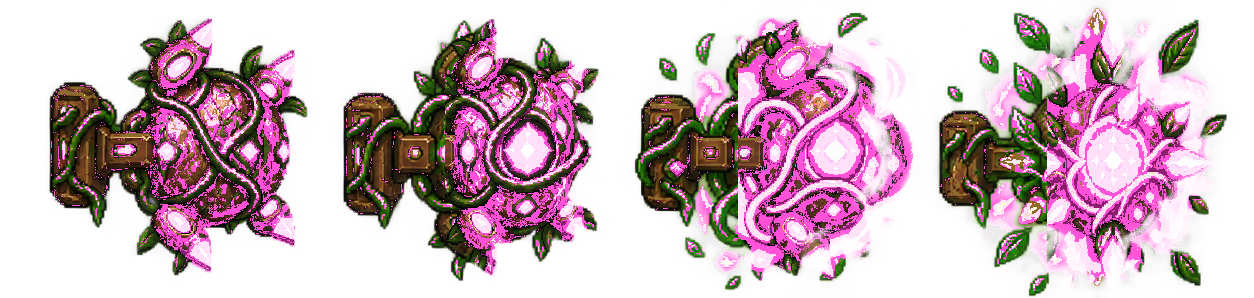
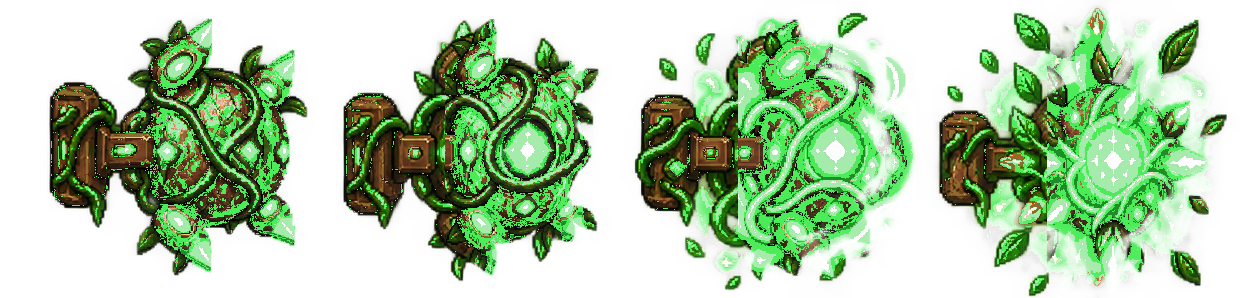
Mine lasers: Space mine fires its painted pink ion beam again (white freed for Storm); Verdant mine's armed/lit atlas recoloured from pink to green-white; cue tables match WorldCue; themed/Verdant art tests + preview

diff --git a/Pause/Assets/Scripts/Gameplay/Enemies/RailMineLaser.cs b/Pause/Assets/Scripts/Gameplay/Enemies/RailMineLaser.cs
@@ -745,17 +745,22 @@ public class RailMineLaserHitbox : MonoBehaviour
 //
 // NO PINK ON A RAIL MINE (user, 2026-10-11): the mine's windup, beam and impact carry no pink. The painted atlases were remapped once
 // (Art/Attacks/MineBeams~/recolor_nopink.py); the kit / boss cells are remapped here, once per world and cached, with the same
-// constants. Each world's warning reads in its own colours instead: Space ion white-blue, Frost icy white-cyan, Verdant bright green-white,
+// constants (Space is NOT remapped: its mine laser stays the painted hot pink). Each other world's warning reads in its own colours instead: Frost icy white-cyan, Verdant bright green-white,
 // Ember amber / orange-white, Tide aqua-white, Storm electric white-violet, Desert sun-white.
 public static class MineCue
 {
     //                                       space  frost verdant ember  tide  storm desert
-    public static readonly float[] Hue = { 215f, 195f, 135f, 32f, 188f, 258f, 45f };
-    public static readonly float[] SatCap = { .45f, .40f, .55f, .85f, .38f, .38f, .35f };
+    public static readonly float[] Hue = { 318f, 195f, 135f, 32f, 188f, 258f, 45f };
+    public static readonly float[] SatCap = { .70f, .40f, .55f, .85f, .38f, .38f, .35f };
     public static readonly float[] ValueMin = { .85f, .90f, .88f, .92f, .90f, .92f, .92f };
     public const int Worlds = 7;
 
     public static int Slot(int world) => Mathf.Clamp(world, 0, Worlds - 1);
+
+    // User, 2026-10-12: Space is the one world whose mine laser is PINK; white(-violet) is Storm's. So Space is never remapped.
+    public static bool KeepsPink(int world) => world <= 0 && !LegacySpaceWhite;
+    // preview only: the old Space look (pink remapped to ion white-blue), for before-pictures
+    public static bool LegacySpaceWhite;
 
     // The pink family of a boss / kit cell: ANY visibly pinkish pixel -- hue 280..352 at a chroma of at least 9/255 and not dark (saturated
     // pink AND the pale pinkish-white / lavender-white of rims and specks), or the hot pink of the boss beams that sits in the player's
@@ -773,8 +778,9 @@ public static class MineCue
     {
         int k = Slot(world);
         Color.RGBToHSV(c, out float h, out float s, out float v);
-        float sat = Mathf.Min(Mathf.Max(s * .8f, .10f), SatCap[k]) * (v < .95f ? 1f : .75f);
-        var m = Color.HSVToRGB(Hue[k] / 360f, sat, Mathf.Max(v, ValueMin[k]));
+        bool old = k == 0 && LegacySpaceWhite;
+        float sat = Mathf.Min(Mathf.Max(s * .8f, .10f), old ? .45f : SatCap[k]) * (v < .95f ? 1f : .75f);
+        var m = Color.HSVToRGB((old ? 215f : Hue[k]) / 360f, sat, Mathf.Max(v, old ? .85f : ValueMin[k]));
         m.a = c.a;
         return m;
     }
@@ -817,6 +823,7 @@ public static class MineCue
     public static Sprite Recolour(Sprite cell, int world)
     {
         if (cell == null) return null;
+        if (KeepsPink(world)) return cell;   // Space: its painted hot pink stays (white-violet belongs to Storm)
         int w, h;
         var px = ShieldContour.ReadPixels(cell, out w, out h);
         if (px == null) return cell;
@@ -851,6 +858,7 @@ public static class MineCue
     // The world's painted laser kit with its pink removed (same cells, same measurements).
     public static AttackArt.LaserArt Kit(AttackArt.LaserArt k, int world)
     {
+        if (KeepsPink(world)) return k;
         var o = new AttackArt.LaserArt { bodyOpaquePx = k.bodyOpaquePx, impactBasePx = k.impactBasePx };
         Copy(All(k.windup, world), o.windup); Copy(All(k.muzzle, world), o.muzzle); Copy(All(k.fade, world), o.fade); Copy(All(k.impact, world), o.impact);
         Copy(All(k.spark, world), o.spark); Copy(All(k.body, world), o.body); Copy(All(k.sight, world), o.sight); Copy(All(k.lockOn, world), o.lockOn);

diff --git a/Pause/Assets/Editor/Tests/RailMineThemedTest.cs b/Pause/Assets/Editor/Tests/RailMineThemedTest.cs
@@ -6,7 +6,7 @@ using UnityEngine;
 // EVERY WORLD'S RAIL MINE ATTACKS IN THAT WORLD'S OWN MATERIAL (docs/world-attacks-design.md, the add-world skill's THEMED ATTACKS rule).
 //
 //   Space                    the mine fires the world's painted laser kit (Resources/Attacks/Space/space_attack_laser*, AttackArt.BossLaser:
-//                            ion beam, its pink remapped to ion white-blue by MineCue), NOT the boss cells
+//                            ion beam, PINK, left as painted: Space is the one world with a pink mine laser, 2026-10-12), NOT the boss cells
 //   Ember                    the flame-thrower (ember_attack_mineflame.png, MineFlameArt)
 //   Frost / Verdant /        their own custom attack in the same shape (<w>_attack_minebeam.png, AttackArt.MineBeam, MineFlameArt.ForWorld):
 //   Tide / Storm             a cryo laser, a thorned vine lash, a pressurised water jet, a lightning arc: pilot flare, aim line, beam loop,
@@ -100,6 +100,15 @@ public static class RailMineThemedTest
         string t = Keys[w] + ": ";
         var a = MineLaserArt.For(w);
         var src = AttackArt.BossLaser(w);
+        if (w == 0)
+        {
+            // SPACE IS PINK (user, 2026-10-12): the mine fires the painted ion kit as it is, never remapped (white-violet is Storm's)
+            Check(t + "the mine's art is the painted laser kit itself, not remapped", src != null && a.kit == src && a.flame == null && MineCue.KeepsPink(0) && !MineCue.KeepsPink(5));
+            float pb = PinkShare(a.kit.body[0], out int rb, out int ob), ps = PinkShare(a.kit.sight[0], out int rs, out int os);
+            Check(t + "its beam body is pink (" + (pb * 100f).ToString("F0") + "%) and its aim line is pink (" + (ps * 100f).ToString("F0") + "%)", pb > .3f && ps > .3f);
+            Check(t + "the cue table: Space pink, every other world's mine cue not pink", WorldCue.IsPink(WorldCue.Body(0)) && MineCue.Hue[0] == WorldCue.Hue[0] && AllOthersNotPink());
+            return;
+        }
         Check(t + "the mine's art is the world's laser kit with its pink remapped (a cached copy, not the boss cells, not the boss's own kit)", src != null && a.kit != null && a.kit != src && a.flame == null &&
               a.kit.body[0] != src.body[0] && a.kit.bodyOpaquePx == src.bodyOpaquePx && a.kit.impactBasePx == src.impactBasePx);
         Check(t + "built once per world: a second look-up is the same object", ReferenceEquals(MineLaserArt.For(w), a));
@@ -117,6 +126,18 @@ public static class RailMineThemedTest
         }
         Check(t + "no pink (<= " + (MaxPinkShare * 100f) + "% pink-family) and no player-red in any cell:" + line, cue);
         Check(t + "the world's cue colour (hue " + MineCue.Hue[MineCue.Slot(w)] + ") is in the beam body (" + (CueShare(kit.body[0], w) * 100f).ToString("F0") + "%)", CueShare(kit.body[0], w) >= MinCueShare);
+    }
+
+    // MineCue and WorldCue: hue tables equal; Frost..Desert none pink; Storm is white-violet (the white one), Space the pink one
+    static bool AllOthersNotPink()
+    {
+        for (int w = 1; w < MineCue.Worlds; w++)
+        {
+            if (MineCue.Hue[w] != WorldCue.Hue[w]) return false;
+            var c = Color.HSVToRGB(MineCue.Hue[w] / 360f, MineCue.SatCap[w], 1f);
+            if (WorldCue.IsPink(c) || WorldCue.IsPink(WorldCue.Body(w))) return false;
+        }
+        return Mathf.Abs(Mathf.DeltaAngle(MineCue.Hue[5], 258f)) < 1f && MineCue.SatCap[5] <= .4f;
     }
 
     // a world without its own atlas (Desert): the boss's laser cells, their hot pink remapped to the sun-white cue

diff --git a/Pause/Assets/Editor/Tests/VerdantAttackArtTest.cs b/Pause/Assets/Editor/Tests/VerdantAttackArtTest.cs
@@ -183,6 +183,20 @@ public static class VerdantAttackArtTest
               imp != null && imp.filterMode == FilterMode.Point && !imp.mipmapEnabled && imp.textureCompression == TextureImporterCompression.Uncompressed && !imp.isReadable && imp.maxTextureSize >= 1254);
         var tex = RailMineArt.LitAtlas;
         Check("lit mine: 1254 x 298, served from Resources/" + RailMineArt.VerdantLitAtlasPath, tex != null && tex.width == RailMineArt.AtlasSize && tex.height == RailMineArt.VerdantLitAtlasHeight);
+        // NO PINK on the arming green mine (user, 2026-10-12: "the green mine turns pink when it's shooting"): the lit drawing is Verdant green-white
+        var raw = new Texture2D(2, 2, TextureFormat.RGBA32, false);
+        raw.LoadImage(File.ReadAllBytes(LitFile));
+        int opq = 0, pinkPx = 0, greenPx = 0;
+        foreach (var c in raw.GetPixels32())
+        {
+            if (c.a < 128) continue;
+            opq++;
+            Color.RGBToHSV(c, out float hh, out float ss, out float vv);
+            float dg = hh * 360f;
+            if (vv > .25f && ss * vv >= .035f && dg >= 280f && dg < 352f) pinkPx++;
+            if (ss > .25f && vv > .5f && Mathf.Abs(Mathf.DeltaAngle(dg, 125f)) <= 25f) greenPx++;
+        }
+        Check("lit mine: no pink (" + pinkPx + " of " + opq + " opaque px) and a visible green glow (" + greenPx + " px)", opq > 0 && pinkPx <= opq * .01f && greenPx > opq * .1f);
         Check("only Verdant has a lit mine", RailMineArt.HasLit(2) && !RailMineArt.HasLit(0) && !RailMineArt.HasLit(1) && !RailMineArt.HasLit(3) && !RailMineArt.HasLit(4));
         bool geo = true;
         for (int c = 0; c < 4; c++)

diff --git a/Pause/Assets/Art/Attacks/MineBeams~/recolor_verdant_lit.py b/Pause/Assets/Art/Attacks/MineBeams~/recolor_verdant_lit.py
@@ -1,0 +1,27 @@
+"""Verdant's LIT mine atlas (rail_mines_neon_verdant_lit.png) was painted hot pink: the green mine turned pink when it armed (user, 2026-10-12).
+Every pink-family pixel (same mask as recolor_nopink.py / MineCue.IsPink) goes to the Verdant cue green, keeping its lightness structure, with
+more saturation than the generic pale remap so the arming core reads as glowing green rather than washed-out mint.
+usage: python3 recolor_verdant_lit.py <src pink original> <dest.png>
+"""
+import sys, colorsys
+import numpy as np
+from PIL import Image
+a = np.array(Image.open(sys.argv[1]).convert("RGBA"))
+rgb = a[:, :, :3].astype(np.float32) / 255
+mx = rgb.max(2); mn = rgb.min(2); d = mx - mn
+s = np.where(mx > 0, d / np.maximum(mx, 1e-4), 0)
+r, g, b = rgb[..., 0], rgb[..., 1], rgb[..., 2]
+h = np.zeros(mx.shape, np.float32)
+ix = (mx == r) & (d > 0); h[ix] = ((g - b)[ix] / d[ix]) % 6
+ix = (mx == g) & (d > 0) & (mx != r); h[ix] = (b - r)[ix] / d[ix] + 2
+ix = (mx == b) & (d > 0) & (mx != r) & (mx != g); h[ix] = (r - g)[ix] / d[ix] + 4
+h = (h * 60) % 360
+pink = (a[..., 3] > 0) & (d >= .035) & (mx > .25) & (h >= 280) & (h < 352)
+out = a.copy()
+for y, x in zip(*np.where(pink)):
+    sat = min(max(float(s[y, x]) * 1.0, .30), .85)
+    v = max(float(mx[y, x]) * .92, .55)
+    rr, gg, bb = colorsys.hsv_to_rgb(125 / 360, sat, v)
+    out[y, x, :3] = (round(rr * 255), round(gg * 255), round(bb * 255))
+Image.fromarray(out, "RGBA").save(sys.argv[2])
+print("recoloured px:", int(pink.sum()))

diff --git a/Pause/Assets/Editor/Tools/Previews/MineThemedPreview.cs b/Pause/Assets/Editor/Tools/Previews/MineThemedPreview.cs
@@ -13,7 +13,7 @@ public static class MineThemedPreview
 {
     const int Width = 540, Height = 960, CropH = 330;
     static int World;
-    static readonly string[] Keys = { "Space", "Frost", "Verdant", "Ember", "Tide", "Storm" };
+    static readonly string[] Keys = { "Space", "Frost", "Verdant", "Ember", "Tide", "Storm", "Desert" };
     const float Dt = 1f / 60f;
 
     static Camera cam;
@@ -44,6 +44,7 @@ public static class MineThemedPreview
             {
                 MineLaserArt.NoFlame = false;
                 MineLaserArt.NoKit = false;
+                MineCue.LegacySpaceWhite = false;
                 MineLaserArt.ResetCache();
                 RailMineLaser.AngleOverride = null;
                 EnemyThreat.ForceShooting = false;
@@ -116,6 +117,7 @@ public static class MineThemedPreview
     {
         MineLaserArt.NoFlame = old;
         MineLaserArt.NoKit = old;
+        MineCue.LegacySpaceWhite = System.Environment.GetEnvironmentVariable("MINE_THEMED_LEGACY") == "1";
         MineLaserArt.ResetCache();
         RailMineLaser.AngleOverride = 14f;
         Scene();
